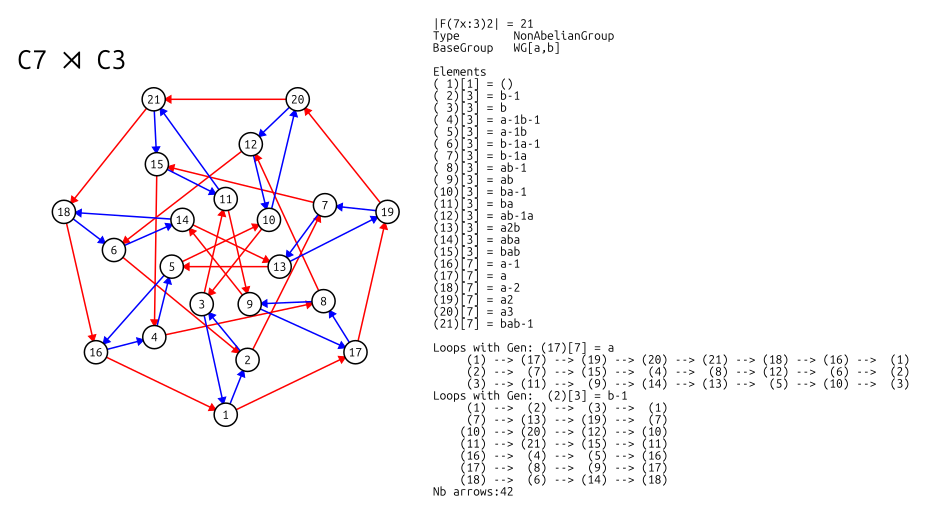
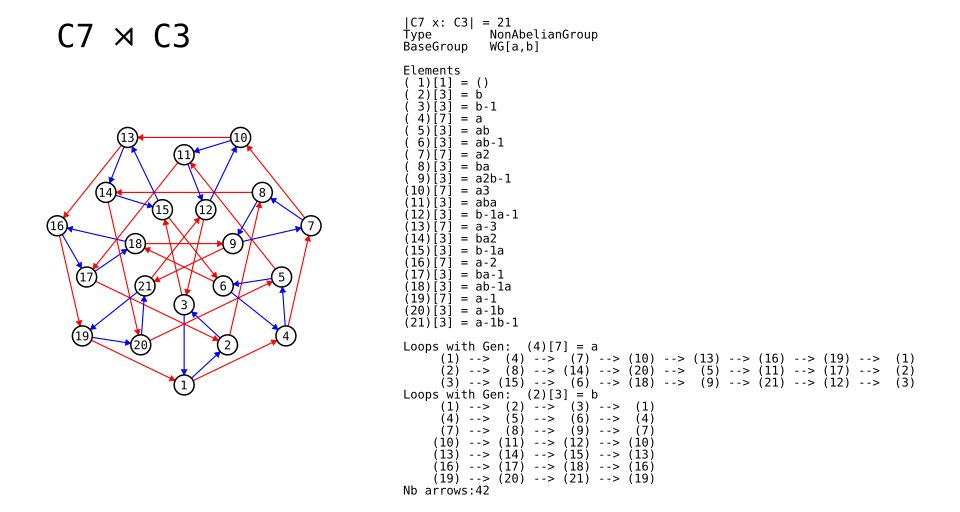
Cayley Graph of C7 x: C3

diff --git a/FastGoat/Structures/DisplayGroup.cs b/FastGoat/Structures/DisplayGroup.cs
@@ -40,7 +40,7 @@ public static class DisplayGroup
         Console.WriteLine();
     }
 
-    public static void Elements<T>(ConcreteGroup<T> g, SortBy sortBy = SortBy.Order) where T : struct, IElt<T>
+    public static void Elements<T>(ConcreteGroup<T> g, Comparer<T> comp) where T : struct, IElt<T>
     {
         if (g.ElementsOrders.Count > 300)
         {
@@ -48,10 +48,7 @@ public static class DisplayGroup
             return;
         }
 
-        var ordered = sortBy == SortBy.Value
-            ? g.ElementsOrders.Keys.Ascending()
-            : g.ElementsOrders.Keys.OrderBy(a => g.ElementsOrders[a]).ThenAscending();
-
+        var ordered = g.ElementsOrders.Keys.OrderBy(e => e, comp);
         var k = 0;
         var digits1 = $"{g.ElementsOrders.Count}".Length;
         var digits2 = $"{g.ElementsOrders.Values.Max()}".Length;
@@ -65,6 +62,17 @@ public static class DisplayGroup
         }
 
         Console.WriteLine();
+    }
+
+    private static Comparer<T> BasicComparer<T>(ConcreteGroup<T> g, SortBy sortBy) where T : struct, IElt<T>
+    {
+        return Comparer<T>.Create((e0, e1) =>
+            sortBy == SortBy.Value ? e0.CompareTo(e1) : g.ElementsOrders[e0].CompareTo(g.ElementsOrders[e1]));
+    }
+
+    public static void Elements<T>(ConcreteGroup<T> g, SortBy sortBy = SortBy.Order) where T : struct, IElt<T>
+    {
+        Elements(g, BasicComparer(g, sortBy));
     }
 
     public static void Cosets<T>(ConcreteGroup<Coset<T>> g, bool details = false) where T : struct, IElt<T>
@@ -196,7 +204,7 @@ public static class DisplayGroup
     {
         Head(g);
         Cosets(g);
-        Table(g, SortBy.Order);
+        Table(g);
     }
 
     public static void HeadSdp<T1, T2>(SemiDirectProduct<T1, T2> p)
@@ -328,7 +336,7 @@ public static class DisplayGroup
         Generators(g, showBaseGroup: false);
     }
 
-    public static void CayleyGraph<T>(ConcreteGroup<T> g, SortBy sortBy = SortBy.Order, params T[] gens) 
+    public static void CayleyGraph<T>(ConcreteGroup<T> g, Comparer<T> comp, params T[] gens) 
         where T : struct, IElt<T>
     {
         if (gens.Length == 0)
@@ -336,10 +344,8 @@ public static class DisplayGroup
         if (gens.Any(e => !g.Contains(e)))
             throw new();
 
-        var ordered = sortBy == SortBy.Value
-            ? g.ElementsOrders.Keys.Ascending()
-            : g.ElementsOrders.Keys.OrderBy(a => g.ElementsOrders[a]).ThenAscending();
-        var map = ordered.Select((e, k) => (e, k)).ToDictionary(e => e.e, e => e.k + 1);
+        var ordered = g.ElementsOrders.Keys.OrderBy(e => e, comp);
+        var map = ordered.Index().ToDictionary(e => e.Item, e => e.Index + 1);
 
         var digits = map.Values.Max(e => $"{e}".Length) + 2;
         var digits2 = g.ElementsOrders.Max(e => $"{e.Value}".Length) + 2;
@@ -353,7 +359,11 @@ public static class DisplayGroup
             var cyc = (g.ElementsOrders[e] + 1).Range().Select(i => g.Times(e, i)).ToArray();
             var cosets = Group.Cosets(g, h, CosetType.Left);
             var loops = cosets.Values.Distinct().Order()
-                .Select(a => cyc.Select(b => map[g.Op(a.X, b)]).ToArray()).ToArray();
+                .Select(a =>
+                {
+                    var ax = a.MinBy(f => f, comp);
+                    return cyc.Select(b => map[g.Op(ax, b)]).ToArray();
+                }).ToArray();
             loops.OrderBy(l => l[0]).Println(l => l.Select(k => string.Format(fmt1, $"({k})")).Glue(" --> "),
                 $"Loops with Gen: {string.Format(fmt2, $"({map[e]})", $"[{g.ElementsOrders[e]}]", e)}");
 
@@ -362,6 +372,12 @@ public static class DisplayGroup
 
         Console.WriteLine($"Nb arrows:{nbArrows}");
         Console.WriteLine();
+    }
+
+    public static void CayleyGraph<T>(ConcreteGroup<T> g, SortBy sortBy = SortBy.Order, params T[] gens) 
+        where T : struct, IElt<T>
+    {
+        CayleyGraph(g, BasicComparer(g, sortBy), gens);
     }
     
     public static void HeadCayleyGraph<T>(ConcreteGroup<T> g, SortBy sortBy = SortBy.Order, params T[] gens) 
@@ -384,6 +400,14 @@ public static class DisplayGroup
         Head(g);
         Elements(g, sortBy);
         CayleyGraph(g, sortBy, gens);
+    }
+
+    public static void HeadElementsCayleyGraph<T>(ConcreteGroup<T> g, Comparer<T> comp, params T[] gens) 
+        where T : struct, IElt<T>
+    {
+        Head(g);
+        Elements(g, comp);
+        CayleyGraph(g, comp, gens);
     }
 
 }

diff --git a/Examples/ReadMeCode.cs b/Examples/ReadMeCode.cs
@@ -83,11 +83,13 @@ public static class ReadMeCode
         var g21mat = Group.IsomorphicSubgroup(gl27, g21);
         DisplayGroup.HeadGenerators(g21mat);
     }
-
-    public static void ExampleCayletGrapheGroup21()
+    
+    public static void ExampleCayleyGraphGroup21()
     {
-        var g21 = FG.MetaCyclicSdpWg(7, 3, 2);
-        DisplayGroup.HeadElementsCayleyGraph(g21, gens: [g21["a"], g21["b-1"]]);
+        var g21 = FG.WordGroup("C7 x: C3", "a7, b3, a2 = bab-1");
+        var idx = 7.Range().Grid2D(3.Range()).ToDictionary(e => g21[$"a{e.t1}b{e.t2}"], e => e);
+        var comp = Comparer<Word>.Create((e0, e1) => idx[e0].CompareTo(idx[e1]));
+        DisplayGroup.HeadElementsCayleyGraph(g21, comp);
     }
     
     public static void ExampleGaloisCyclicGroup5()

diff --git a/FastGoat/UserGroup/Words/WordGroup.cs b/FastGoat/UserGroup/Words/WordGroup.cs
@@ -93,9 +93,7 @@ public class WordGroup : ConcreteGroup<Word>
 
     public override Word Op(Word e1, Word e2)
     {
-        if (Ord >= Group.GetStorageCapacity())
-            return new(WGbase, Rewrite(e1.Get().Add(e2.Get())));
-        else
+        if (Ord < Group.GetStorageCapacity())
         {
             var e12 = (e1, e2);
             if (OpTable.TryGetValue(e12, out var r))
